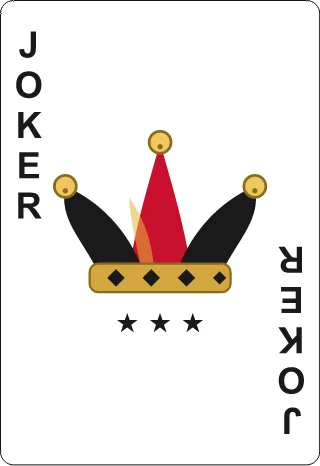
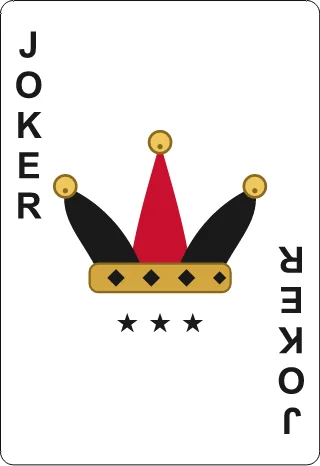
fix(frontend): double-tap guard, rotated toasts, no resume flash, own card count

Changed region(s): [[0.4062, 0.4206, 0.5, 0.5708]]

diff --git a/frontend/js/app.js b/frontend/js/app.js
@@ -6,7 +6,7 @@ import { shouldRotate } from './orientation.js';
 import { closeSheets } from './sheets.js';
 import { createStore } from './storage.js';
 import { initTable, renderTable } from './table-view.js';
-import { setReconnecting, showView, toast } from './ui.js';
+import { setReconnecting, showView, syncTableRotated, toast } from './ui.js';
 
 const store = createStore();
 const gameNames = {};
@@ -14,7 +14,9 @@ let connection = null;
 let meId = null;
 
 function applySettings({ theme, cardStyle }) {
-  document.body.className = `theme-${theme} cards-${cardStyle}`;
+  // classList, not className: keep other body classes such as table-rotated.
+  for (const c of [...document.body.classList]) if (/^(theme|cards)-/.test(c)) document.body.classList.remove(c);
+  document.body.classList.add(`theme-${theme}`, `cards-${cardStyle}`);
 }
 
 function gameName(id) {
@@ -31,11 +33,15 @@ function render(state) {
   }
 }
 
-function enterRoom(code) {
+function enterRoom(code, { resume = false } = {}) {
   connection?.close();
   meId = null;
-  showLobbyLoading(code);
-  showView('lobby');
+  if (resume) {
+    showView(null); // no lobby flash: the first state picks lobby or table
+  } else {
+    showLobbyLoading(code);
+    showView('lobby');
+  }
   connection = new RoomConnection({
     code,
     store,
@@ -63,6 +69,7 @@ function leaveRoom() {
 
 function updateRotation() {
   document.getElementById('view-table').classList.toggle('rotated', shouldRotate(innerWidth, innerHeight));
+  syncTableRotated();
 }
 
 applySettings(store.getSettings());
@@ -81,4 +88,4 @@ if ('serviceWorker' in navigator) navigator.serviceWorker.register('/service-wor
 
 // Back to the table you were at (reload, app reopened, phone slept).
 const current = store.getCurrentRoom();
-if (current && store.getToken(current)) enterRoom(current);
+if (current && store.getToken(current)) enterRoom(current, { resume: true });

diff --git a/frontend/js/table-view.js b/frontend/js/table-view.js
@@ -13,7 +13,7 @@ export function initTable({ onLeave }) {
 
 export function renderTable(state, meId) {
   const me = state.players.find((p) => p.id === meId);
-  document.querySelector('.seat-me').replaceChildren(...(me ? [plate(me, false)] : []));
+  document.querySelector('.seat-me').replaceChildren(...(me ? [plate(me)] : []));
   document.querySelector('.seats').replaceChildren(
     ...seatPositions(state.players, meId).map(({ player, position }) => seat(player, position)),
   );
@@ -23,21 +23,19 @@ function seat(player, position) {
   const el = div(`seat seat-${position}`);
   const backs = div('backs');
   for (let i = 0; i < Math.min(player.hand_count, MAX_BACKS); i++) backs.append(div('card-back'));
-  el.append(backs, plate(player, true));
+  el.append(backs, plate(player));
   return el;
 }
 
-function plate(player, withCount) {
+function plate(player) {
   const el = div(player.connected ? 'plate' : 'plate offline');
   const name = document.createElement('span');
   name.textContent = player.name;
   el.append(div('dot'), name);
-  if (withCount) {
-    const count = document.createElement('span');
-    count.className = 'count';
-    count.textContent = String(player.hand_count);
-    el.append(count);
-  }
+  const count = document.createElement('span');
+  count.className = 'count';
+  count.textContent = String(player.hand_count);
+  el.append(count);
   return el;
 }
 

diff --git a/frontend/styles.css b/frontend/styles.css
@@ -101,5 +101,7 @@ input { font: inherit; }
 /* ---------- toast & banner ---------- */
 .toast { position: fixed; left: 50%; bottom: max(24px, env(safe-area-inset-bottom)); z-index: 40; max-width: 90vw; transform: translateX(-50%);
          padding: 11px 16px; border-radius: 12px; background: #1a1a1a; color: #fff; font-size: 14px; box-shadow: 0 6px 18px rgba(0,0,0,.4); }
+body.table-rotated .toast { left: max(40px, env(safe-area-inset-left)); bottom: auto; top: 50%; max-width: 90vh; transform: translate(-50%, -50%) rotate(90deg); }
+body.table-rotated .banner { left: auto; right: max(24px, env(safe-area-inset-right)); top: 50%; transform: translate(50%, -50%) rotate(90deg); }
 .banner { position: fixed; top: max(8px, env(safe-area-inset-top)); left: 50%; z-index: 40; transform: translateX(-50%);
           padding: 6px 14px; border-radius: 999px; background: #b45309; color: #fff; font-size: 13px; font-weight: 700; }

diff --git a/frontend/js/ui.js b/frontend/js/ui.js
@@ -1,8 +1,16 @@
 const VIEWS = ['main', 'lobby', 'table'];
 let toastTimer;
 
+/** name = null hides every view (neutral state while resuming a saved room). */
 export function showView(name) {
   for (const view of VIEWS) document.getElementById(`view-${view}`).hidden = view !== name;
+  syncTableRotated();
+}
+
+/** Body class so toasts and the banner can turn with the rotated table. */
+export function syncTableRotated() {
+  const table = document.getElementById('view-table');
+  document.body.classList.toggle('table-rotated', !table.hidden && table.classList.contains('rotated'));
 }
 
 export function toast(message) {

diff --git a/frontend/js/main-view.js b/frontend/js/main-view.js
@@ -43,13 +43,18 @@ export function initMain({ store, enterRoom, applySettings }) {
     document.getElementById('player-counts').replaceChildren(...counts);
   }
 
+  let creating = false;
   async function create(game, players) {
+    if (creating) return; // ignore double taps while the request is in flight
+    creating = true;
     try {
       const code = await createRoom(game.id, players);
       closeSheets();
       enterRoom(code);
     } catch (err) {
       toast(err.message);
+    } finally {
+      creating = false;
     }
   }
 

diff --git a/scripts/build_cards.py b/scripts/build_cards.py
@@ -64,6 +64,10 @@ def ace_of_spades() -> str:
     svg, shines = re.subn(r'<path[^>]*?id="path3762[^"]*"[^>]*/>', "", svg, flags=re.S)
     if shines != 2:
         raise SystemExit(f"AH.svg changed: expected 2 shine paths, found {shines}")
+    # The centre spade inherits the heart's radial gradient; make it plain solid black.
+    if svg.count("fill:url(#radialGradient3776)") != 1:
+        raise SystemExit("AH.svg changed: expected the radialGradient3776 fill exactly once")
+    svg = svg.replace("fill:url(#radialGradient3776)", "fill:#000000")
     return svg.replace(HEART, SPADE).replace("#df0000", "#000000")
 
 
@@ -81,7 +85,6 @@ def joker(cap: str, accent: str) -> str:
     <path d="M36 66 C40 42 46 24 50 9 C54 24 60 42 64 66 Z" fill="{accent}"/>
     <path d="M22 68 C14 52 4 44 7 29 C19 34 33 45 41 64 Z" fill="{cap}"/>
     <path d="M59 64 C67 45 81 34 93 29 C96 44 86 52 78 68 Z" fill="{cap}"/>
-    <path d="M41 64 C38 50 36 40 36 34 C43 44 46 54 47 64 Z" fill="#e8b33a" opacity=".55"/>
     <rect x="18" y="64" width="64" height="13" rx="4" fill="#d4a640" stroke="#8a6a1f" stroke-width="1"/>
     <g fill="{cap}"><path d="M26 70.5l4-4 4 4-4 4z"/><path d="M42 70.5l4-4 4 4-4 4z"/><path d="M58 70.5l4-4 4 4-4 4z"/><path d="M74 70.5l3-3 3 3-3 3z"/></g>
     <g fill="#f0c75e" stroke="#8a6a1f" stroke-width="1.2"><circle cx="7" cy="29" r="5"/><circle cx="50" cy="9" r="5"/><circle cx="93" cy="29" r="5"/></g>

diff --git a/scripts/dev_down.py b/scripts/dev_down.py
@@ -12,7 +12,18 @@ from pathlib import Path
 PIDS_PATH = Path(__file__).resolve().parent.parent / ".dev" / "pids.json"
 
 
+def is_python(pid: int) -> bool:
+    """Guard against a recycled pid: only Windows can check cheaply; POSIX skips."""
+    if os.name != "nt":
+        return True
+    r = subprocess.run(["tasklist", "/FI", f"PID eq {pid}", "/FO", "CSV", "/NH"], capture_output=True, text=True)
+    return "python" in r.stdout.lower()
+
+
 def kill(pid: int, label: str) -> None:
+    if not is_python(pid):
+        print(f"  {label} (pid {pid}): already gone")
+        return
     if os.name == "nt":
         r = subprocess.run(["taskkill", "/F", "/T", "/PID", str(pid)], capture_output=True, text=True)
         print(f"  {label} (pid {pid}): {'stopped' if r.returncode == 0 else 'already gone'}")
@@ -29,9 +40,11 @@ def main() -> int:
         print("Nothing running (no .dev/pids.json).")
         return 0
     pids = json.loads(PIDS_PATH.read_text())
-    kill(pids["backend_pid"], "backend")
-    kill(pids["frontend_pid"], "frontend")
-    PIDS_PATH.unlink()
+    try:
+        kill(pids["backend_pid"], "backend")
+        kill(pids["frontend_pid"], "frontend")
+    finally:
+        PIDS_PATH.unlink(missing_ok=True)
     return 0
 
 
